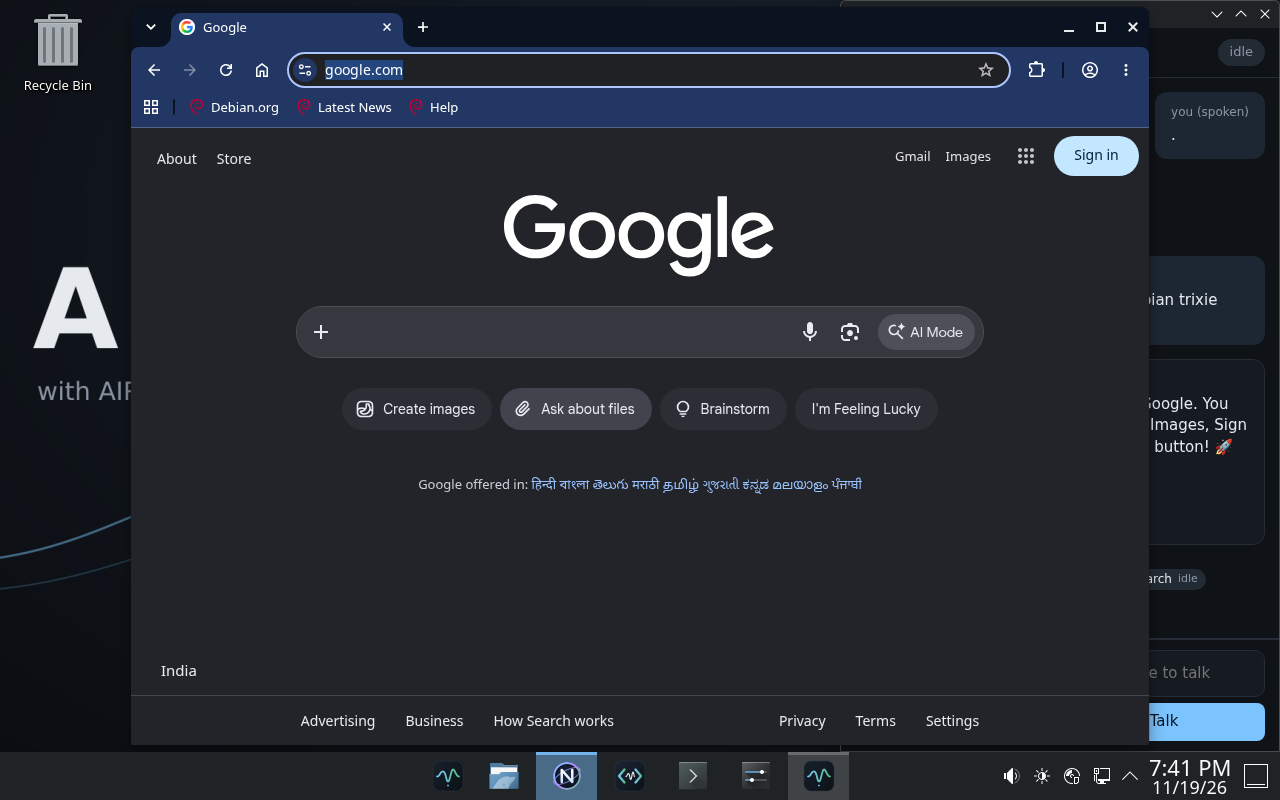
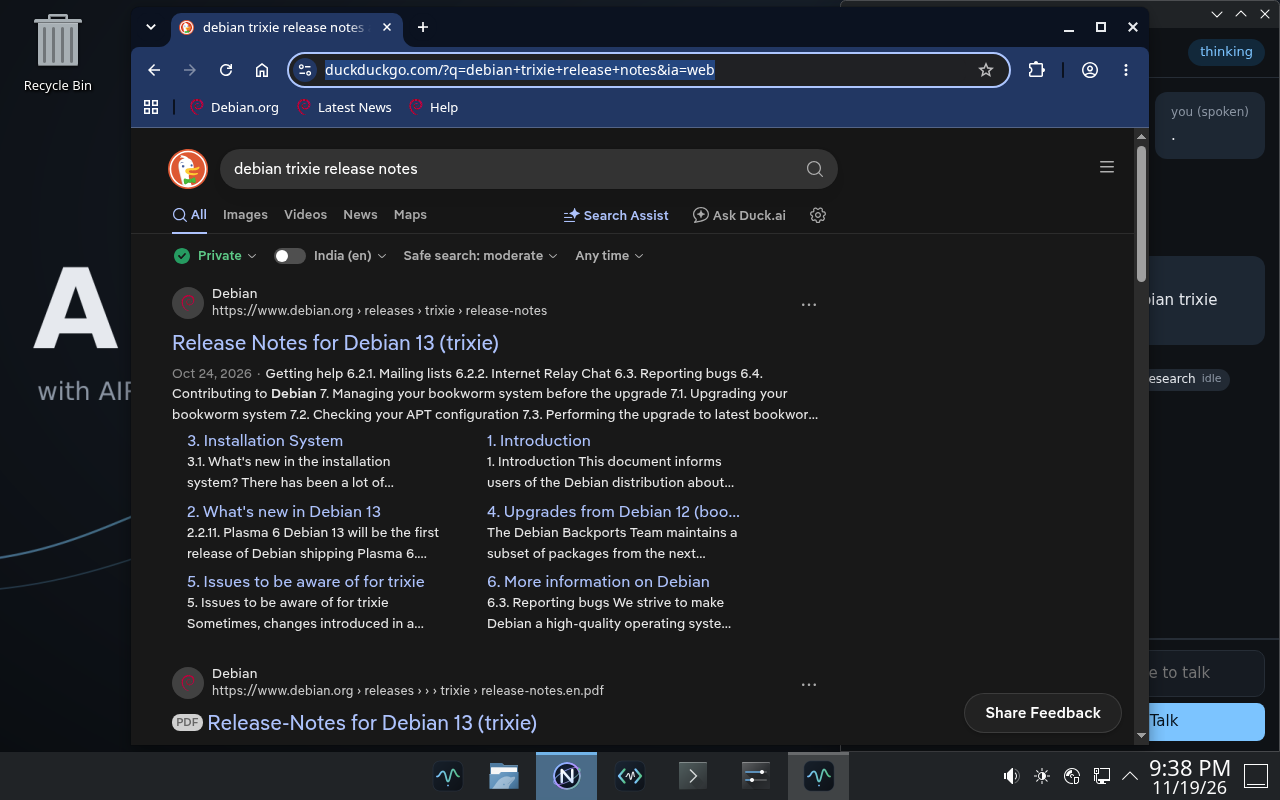
Fix AIRA's search in NEOX, open AIRA's panel before she loads
- Commands that name the browser go whole to the Desktop agent, which
  searches in NEOX itself; the small model split "open the browser and
  search for X" into opening Google and a separate web search.
- The browser tool says to use action search for web searches.
- AIRA's shell serves and opens its panel first, then loads the
  orchestrator and voice; a command given meanwhile waits up to 120 s.
  On some boots the panel had appeared only after 2 minutes.
- Tests: a unit test no longer depends on pytest's run number;
  airox_code_check uses the running user's own runtime dir and home
  (through runuser, root's made AIROX Code hang); desktop_check prints
  AIRA's startup log when the panel is missing.

Checks: unit tests pass; NEOX check 5/5; AIROX Code check 4/4; QEMU
desktop check 11/11, twice in a row; demo dry run 4/5 on the 2B model
(the delete command stops at a question; 4/4 on 9B).

diff --git a/aira/shell/server.py b/aira/shell/server.py
@@ -49,6 +49,10 @@ def tags_for(reply: str) -> list[str]:
     return tags
 
 
+READY_WAIT = 120.0   # seconds a command waits for AIRA to finish loading
+STARTING = "I'm still starting up. Try again in a few seconds."
+
+
 class Shell:
     def __init__(self, port: int = 8765, token: str | None = None, token_file: Path | None = None):
         self.port = port
@@ -57,6 +61,7 @@ class Shell:
         self.orch = None
         self.voice = None
         self.recorder = None
+        self._ready = threading.Event()
         self._subs: list[queue.Queue] = []
         self._lock = threading.Lock()
         self.pending: dict[str, dict] = {}
@@ -118,8 +123,15 @@ class Shell:
 
     # ---- running commands
     def attach(self, orch, voice_session=None, recorder=None) -> None:
-        self.orch, self.voice, self.recorder = orch, voice_session, recorder
+        self.voice = voice_session
+        self.recorder = recorder or self.recorder
         orch.listeners.append(self.publish)
+        self.orch = orch
+        self._ready.set()
+
+    def _wait_ready(self) -> bool:
+        """The panel opens before AIRA has loaded (attach): a command given meanwhile waits for her."""
+        return self._ready.wait(READY_WAIT)
 
     def _finish(self, turn) -> None:
         self.publish({"event": "aira", "text": turn.reply, "kind": turn.kind, "tags": tags_for(turn.reply),
@@ -131,6 +143,10 @@ class Shell:
             with self.busy:
                 self.publish({"event": "you", "text": text, "via": "typed"})
                 self.publish({"event": "thinking"})
+                if not self._wait_ready():
+                    self.publish({"event": "aira", "text": STARTING, "tags": []})
+                    self.publish({"event": "idle"})
+                    return
                 try:
                     self._finish(self.orch.handle(text))
                 except Exception as exc:
@@ -139,7 +155,7 @@ class Shell:
         threading.Thread(target=work, daemon=True).start()
 
     def ptt(self, action: str) -> dict:
-        if self.recorder is None or self.voice is None:
+        if self.recorder is None:      # recording works while AIRA is still loading
             return {"ok": False, "error": "voice is not available"}
         if action == "toggle":
             action = "stop" if self.recorder.proc is not None else "start"
@@ -155,6 +171,10 @@ class Shell:
         def work():
             with self.busy:
                 self.publish({"event": "thinking"})
+                if not self._wait_ready() or self.voice is None:
+                    self.publish({"event": "aira", "text": STARTING, "tags": []})
+                    self.publish({"event": "idle"})
+                    return
                 vt = self.voice.handle_audio(wav)
                 self.publish({"event": "you", "text": vt.transcript or "(nothing heard)", "via": "voice"})
                 if vt.turn is not None:

diff --git a/aira/orchestrator.py b/aira/orchestrator.py
@@ -39,6 +39,8 @@ Answer with one JSON object, one of:
   question in it ("how are you", "tell me a joke", "I'm exhausted", "good night", "you're great").
   Anything asking for a fact is NOT smalltalk, and a command ("delete it", "do it") is never smalltalk. Questions about the user ("what do you know about
   me", "what's my name") go to the assistant agent.
+- Anything to do in the web browser (open it, search in it, read or click a page) is ONE task for
+  the desktop agent; it searches in the browser itself.
 - {{"ask": <question>}}: if the command is too unclear to route.
 - {{"unsupported": true}}: if no agent above has a way to find this out (for example the weather,
   prices, other people's private information, or things only the user knows).
@@ -62,6 +64,11 @@ def make_browser(config: Config):
     return BrowserSession(config.data_dir / "browser-profile")
 MEMORY_COMMAND = re.compile(r"^\W*(?:(?:hey |ok |okay )?aira,?\s+)?(?:please\s+)?"
                             r"(?:pause|resume|unpause|stop|start|export)\s+(?:my |your |the )?memory\b", re.I)
+# commands that name the browser are one task for the Desktop agent, which owns it: the small model
+# split "open the browser and search for X" into opening a page (Desktop) and a separate web search
+# (Research), so the search never appeared in the browser
+BROWSER_COMMAND = re.compile(r"\b(?:in|open|launch|start|use|with)\s+(?:the\s+|my\s+|a\s+)?(?:web\s+)?"
+                             r"(?:browser|neox)\b", re.I)
 # "yes" to AIRA's own "Did you mean ~/x?" (the entity check's suggestion): the user picks the path
 YES = re.compile(r"^\W*(?:yes|yeah|yep|yup|correct|right|exactly|that one|that's (?:it|right|the one))"
                  r"(?:[\s,!.]+(?:please|that one|that's (?:it|right)|do it|go ahead|aira|boss))*\W*$", re.I)
@@ -201,8 +208,12 @@ class Orchestrator:
         try:
             # the memory voice commands (docs/ARCHITECTURE.md) always reach the tool: small talk must never
             # answer "pause memory" with a promise while memory keeps recording
-            r = {"route": [{"agent": "assistant", "task": command}]} if MEMORY_COMMAND.match(command) \
-                else self.route(command)
+            if MEMORY_COMMAND.match(command):
+                r = {"route": [{"agent": "assistant", "task": command}]}
+            elif BROWSER_COMMAND.search(command):
+                r = {"route": [{"agent": "desktop", "task": command}]}
+            else:
+                r = self.route(command)
         except LLMError as exc:
             turn.kind, turn.reply = "error", f"I couldn't reach the model: {exc}"
             return turn

diff --git a/aira/shell/__main__.py b/aira/shell/__main__.py
@@ -33,29 +33,37 @@ def app_window(url: str, data_dir: Path, wm_class: str = "aira") -> list[str]:
 
 
 def main(argv: list[str] | None = None) -> int:
-    from ..orchestrator import Orchestrator
-    from ..profiler.probe import probe
-    from ..tts import choose_speaker
-    from ..voice import Recorder, Transcriber, VoiceSession
+    t0 = time.monotonic()
     ap = argparse.ArgumentParser(prog="aira.shell")
     ap.add_argument("--port", type=int, default=8765)
     ap.add_argument("--no-kiosk", action="store_true", help="do not open Chromium")
     args = ap.parse_args(argv)
     cfg = Config()
+    cfg.ensure_dirs()
     if shutil.which("neox"):   # in the desktop session, AIRA browses in NEOX (aira.neox)
         os.environ.setdefault("AIRA_BROWSER", "neox")
+    # The panel and push-to-talk come first; AIRA herself (the orchestrator, voice and models) loads
+    # after. On a live USB her imports are read from the compressed image and can take a while;
+    # a command given meanwhile waits for her (Shell._wait_ready).
+    from ..voice import Recorder
     shell = Shell(args.port, token_file=token_file())
-    orch = Orchestrator(cfg, shell.confirm, start_controller=True)
-    speaker = choose_speaker(probe().total_memory, out_dir=cfg.data_dir / "speech")
-    shell.attach(orch, VoiceSession(orch, Transcriber(), speaker), Recorder(cfg.data_dir / "recordings"))
+    shell.recorder = Recorder(cfg.data_dir / "recordings")
     shell.serve()
     url = f"http://127.0.0.1:{shell.port}/"
-    print(f"AIRA shell on {url}", flush=True)
+    print(f"AIRA shell on {url} ({time.monotonic() - t0:.1f}s)", flush=True)
     kiosk = None
     if not args.no_kiosk:
         # an app window with the class "aira": the taskbar groups it with the pinned AIRA icon, and
         # the AIRUX KWin script docks it on the right edge like a side panel
         kiosk = subprocess.Popen(app_window(url, cfg.data_dir), stdout=subprocess.DEVNULL, stderr=subprocess.DEVNULL)
+    from ..orchestrator import Orchestrator
+    from ..profiler.probe import probe
+    from ..tts import choose_speaker
+    from ..voice import Transcriber, VoiceSession
+    orch = Orchestrator(cfg, shell.confirm, start_controller=True)
+    speaker = choose_speaker(probe().total_memory, out_dir=cfg.data_dir / "speech")
+    shell.attach(orch, VoiceSession(orch, Transcriber(), speaker))
+    print(f"AIRA ready ({time.monotonic() - t0:.1f}s after start)", flush=True)
     stop = []
     signal.signal(signal.SIGTERM, lambda *a: stop.append(1))
     try:

diff --git a/tests/unit/test_shell.py b/tests/unit/test_shell.py
@@ -101,6 +101,38 @@ def test_typed_command_flows_to_transcript(running):
     assert ev["text"] == "Your notes folder is empty." and ev["calls"][0]["tool"] == "list_dir"
 
 
+def test_panel_serves_before_aira_is_loaded(home, tmp_path):
+    """The panel opens first; a command typed while AIRA loads waits for her, then runs."""
+    sh = Shell(port=0)
+    sh.serve()
+    try:
+        q = sh.subscribe()
+        page = urllib.request.urlopen(f"http://127.0.0.1:{sh.port}/", timeout=5).read().decode()
+        assert sh.token in page
+        assert post(sh.port, "/settings", {}, sh.token)[0] == 503          # "AIRA is not ready"
+        assert post(sh.port, "/command", {"text": "What's in my notes?"}, sh.token)[0] == 202
+        wait_for(q, "thinking")
+        time.sleep(0.5)
+        orch, _, _ = make(home, tmp_path, [route("desktop", "list"), call("list_dir", path="~/notes"),
+                                           reply("Your notes folder is empty.")])
+        sh.attach(orch)
+        assert wait_for(q, "aira")["text"] == "Your notes folder is empty."
+    finally:
+        sh.stop()
+
+
+def test_command_gives_up_if_aira_never_loads(monkeypatch):
+    monkeypatch.setattr(shell_server, "READY_WAIT", 0.3)
+    sh = Shell(port=0)
+    sh.serve()
+    try:
+        q = sh.subscribe()
+        post(sh.port, "/command", {"text": "hi"}, sh.token)
+        assert wait_for(q, "aira")["text"] == shell_server.STARTING
+    finally:
+        sh.stop()
+
+
 def test_confirmation_is_asked_in_the_shell_and_denied(running, home):
     script = [route("desktop", "delete report"), call("delete_path", path="~/report.txt"),
               call("delete_path", path="~/report.txt"), call("delete_path", path="~/report.txt"),

diff --git a/tests/unit/test_guard.py b/tests/unit/test_guard.py
@@ -104,6 +104,24 @@ def test_yes_to_did_you_mean_reruns_with_that_path(home, tmp_path):
     assert orch.handle("yes").kind == "reply" and executed == ["read_file"]
 
 
+@pytest.mark.parametrize("command, browser", [
+    ("Open the browser and search for debian trixie release notes", True),
+    ("Search for flights to Pune in NEOX", True),
+    ("Search arXiv for diffusion models", False),
+    ("Which browser is the default?", False),
+])
+def test_browser_commands_go_to_the_desktop_agent_whole(command, browser):
+    from aira.orchestrator import BROWSER_COMMAND
+    assert bool(BROWSER_COMMAND.search(command)) is browser
+
+
+def test_browser_command_skips_the_router(home, tmp_path):
+    orch, llm, executed = make(home, tmp_path, [{"tool": "ask_user", "args": {"question": "Search for what?"}}])
+    turn = orch.handle("Open the browser and search for debian trixie release notes")
+    assert turn.route == [{"agent": "desktop", "task": "Open the browser and search for debian trixie release notes"}]
+    assert len(llm.calls) == 1 and "Desktop agent" in llm.calls[0]["messages"][0]["content"]
+
+
 def test_yes_without_a_question_is_not_a_replay(home, tmp_path):
     orch, llm, executed = make(home, tmp_path, [route("desktop", "delete ~/reprt.txt"),
                                                 call("delete_path", path="~/reprt.txt"),

diff --git a/tests/airox_code_check.py b/tests/airox_code_check.py
@@ -14,6 +14,7 @@ from __future__ import annotations
 
 import json
 import os
+import pwd
 import shutil
 import subprocess
 import sys
@@ -57,6 +58,12 @@ def main() -> int:
     try:
         env = dict(os.environ, AIRA_IT_RESULTS=str(results), DONT_PROMPT_WSL_INSTALL="1")
         env.pop("WAYLAND_DISPLAY", None)
+        # started through runuser from root, the environment still points at root's runtime dir and
+        # home: AIROX Code then hung before writing a single log line. Use this user's own.
+        rt = env.get("XDG_RUNTIME_DIR")
+        if rt and (not os.path.isdir(rt) or os.stat(rt).st_uid != os.getuid()):
+            env.pop("XDG_RUNTIME_DIR")
+        env["HOME"] = pwd.getpwuid(os.getuid()).pw_dir
         cmd = ["xvfb-run", "-a", "-s", "-screen 0 1600x1000x24", str(APP / "codium"),
                "--no-sandbox", "--disable-gpu", "--disable-workspace-trust", "--skip-welcome",
                f"--user-data-dir={tmp / 'user'}", f"--extensions-dir={tmp / 'exts'}",

diff --git a/aira/tools/desktop.py b/aira/tools/desktop.py
@@ -331,7 +331,8 @@ def register(reg: Registry, browser_session=None) -> None:
     if browser_session is not None:
         fn, risk, rb = make_browser_tool(browser_session)
         reg.add(Tool("browser", A, "control the web browser: open a page, search the web, read the page, "
-                     "click a link or button by its text, go back",
+                     "click a link or button by its text, go back. To search the web, use action search with the "
+                     "user's search terms (do not open a search engine's home page)",
                      {"action": S("what to do", enum=["open", "search", "read", "click", "back"]),
                       "query": S("search terms, for search"), "url": S("address, for open"),
                       "text": S("link or button text, for click")}, ["action"], fn, risk,

diff --git a/tests/desktop_check.py b/tests/desktop_check.py
@@ -159,6 +159,10 @@ def main() -> int:
 
     aira = wait_window(env, r"^AIRA$", 120)
     print(f"AIRA window: {aira}")
+    if not aira:   # what AIRA's shell did, and what was on screen instead
+        print(f"windows: {windows(env)}")
+        print(as_user(env, "journalctl --user -b --no-pager -o short-monotonic | grep -i 'aira.shell\\|aira-shell' "
+                           "| grep -v AIRAWIN | tail -15")["out"])
     r["aira_panel"] = bool(aira) and abs((aira[1] + aira[3]) - W) <= 12 and aira[4] >= H * 0.8 and aira[3] <= 480
 
     comp = as_user(env, "qdbus6 --literal org.kde.kglobalaccel /component/aira_ptt_desktop "

diff --git a/KNOWN_ISSUES.md b/KNOWN_ISSUES.md
@@ -37,9 +37,11 @@ The phase each issue was found in is in brackets.
 - **Results vary between runs.** Risky calls are sampled three times at temperature 0.7 (layer
   5), so the same command can pass in one run and miss in the next. Phase 5 passed 8/10, then
   10/10 on the same code. [9]
-- **The 2B model sometimes misspells a path** (it once wrote `~/.demo.txt` for "demo.txt in my home
-  folder"). The entity check (layer 2) stops it and asks "Did you mean ~/demo.txt?"; answering
-  "yes" runs the request again with that path, through every check. [9]
+- **On the 2B model, "Delete demo.txt in my home folder" usually stops at a question.** In QEMU it
+  wrote `~/.demo.txt` in 3 of 4 dry runs. The entity check (layer 2) stopped it and asked "Did you
+  mean ~/demo.txt?"; answering "yes" runs the request again with that path, through every check.
+  On WSL with a GPU, its three samples disagreed, so AIRA asked instead. The 9B model asked to
+  confirm deleting `~/demo.txt` in 4 of 4 runs. Nothing was ever deleted without confirmation. [9]
 - **Small talk can offer things that do not apply.** For example, it offered a GPU check on a VM
   with no GPU. The reply checker stops invented facts and "done" claims, not irrelevant offers.
   [8, 9]
